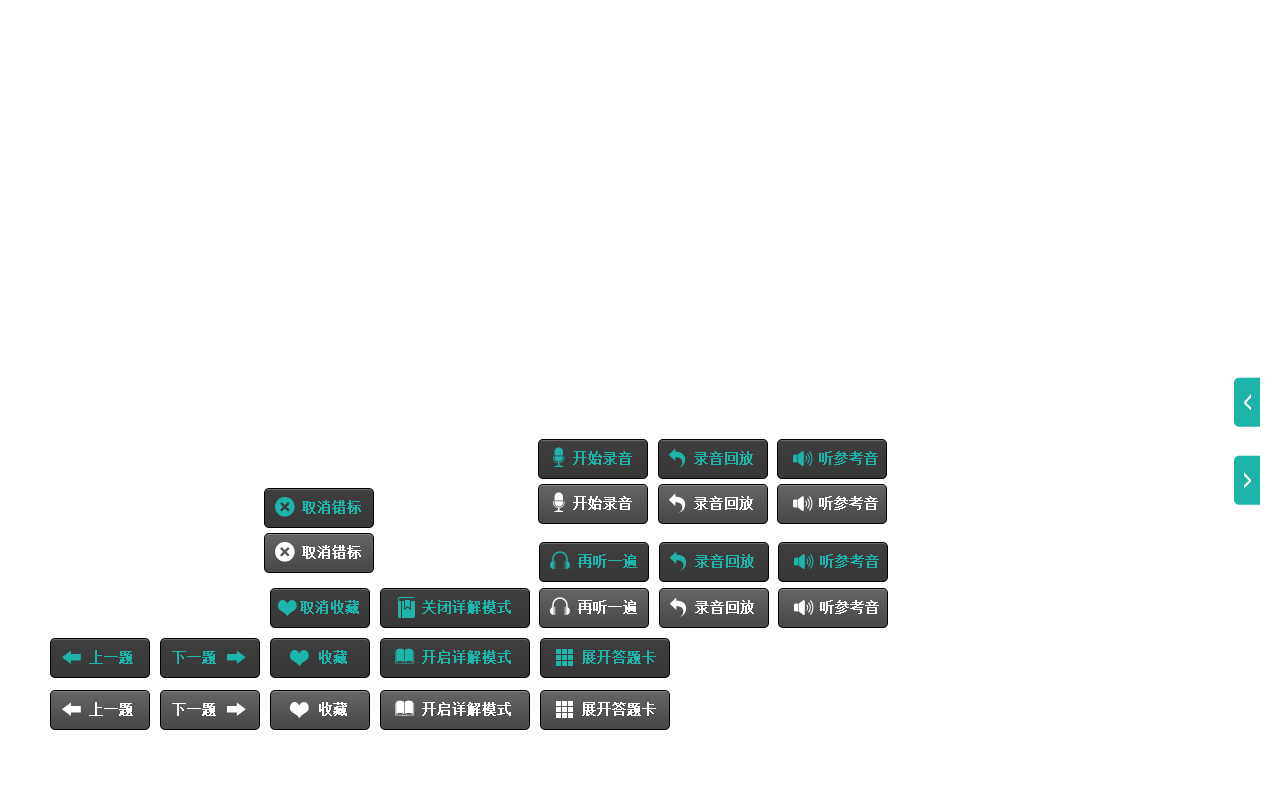
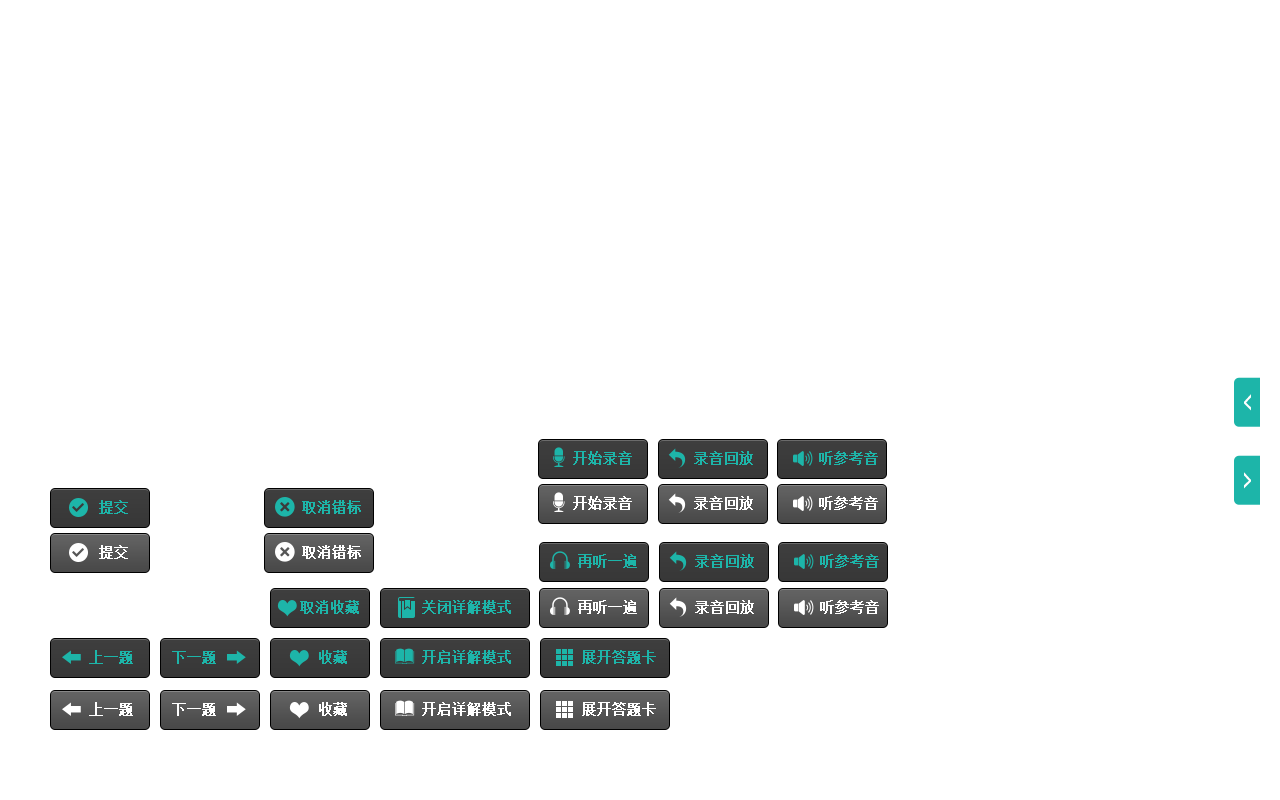
Signed-off-by: Lin <3094047@qq.com>

Changed region(s): [[0.0312, 0.5938, 0.125, 0.7188]]

diff --git a/public/assets/css/index.css b/public/assets/css/index.css
@@ -139,6 +139,14 @@ li.index-list-more a {
 	margin-left: 10px;
 	background-image: url("/assets/img/topic-btn.png");
 }
+#topic-btn-1{
+	background-position:-50px -533px;
+	width: 100px;
+	height: 40px;
+}
+#topic-btn-1:hover{
+	background-position:-50px -488px;
+}
 #topic-btn-2{
 	background-position:-50px -691px;
 	width: 100px;

diff --git a/app/views/Index/topic.blade.php b/app/views/Index/topic.blade.php
@@ -4,12 +4,14 @@
 @section('content')
     <div class="container wrap">
         <div>
-            <h3>{{$q['txt']}}</h3>
+            @if( !empty($q['txt']) ) <h2>{{$q['txt']}}</h2> @endif
+            @if( !empty($q['img']) ) <div><img src= "{{$q['img_url']}}" /></div> @endif
+
         </div>
         <br><br>
         
         <div id="topic-tools">
-            <a class="topic-btn" id="topic-btn-1" hint="提交" href="#">提交</a>
+            <a class="topic-btn" id="topic-btn-1" hint="提交" href="#"></a>
             <a class="topic-btn" id="topic-btn-2" hint="上一题" href="#"></a>
             <a class="topic-btn" id="topic-btn-3" hint="下一题" href="#"></a>
             <a class="topic-btn" id="topic-btn-4" hint="收藏" href="#"></a>

diff --git a/app/controllers/Admin/TopicController.php b/app/controllers/Admin/TopicController.php
@@ -13,7 +13,7 @@ use Attachments;
 class TopicController extends \BaseController {
 
 	public $statusEnum = array('' => '所有状态', '0' => '无效', '1' => '审核通过', '-1' => '审核拒绝');
-	public $typeEnum = array('1' => '选择题', '2' => '填空题', '3' => '模唱', '4' => '试唱');
+	public $typeEnum = array('1' => '选择题', '2' => '判断题', '3' => '填空题', '4' => '模唱', '5' => '试唱');
 
 	public function __construct()
 	{
